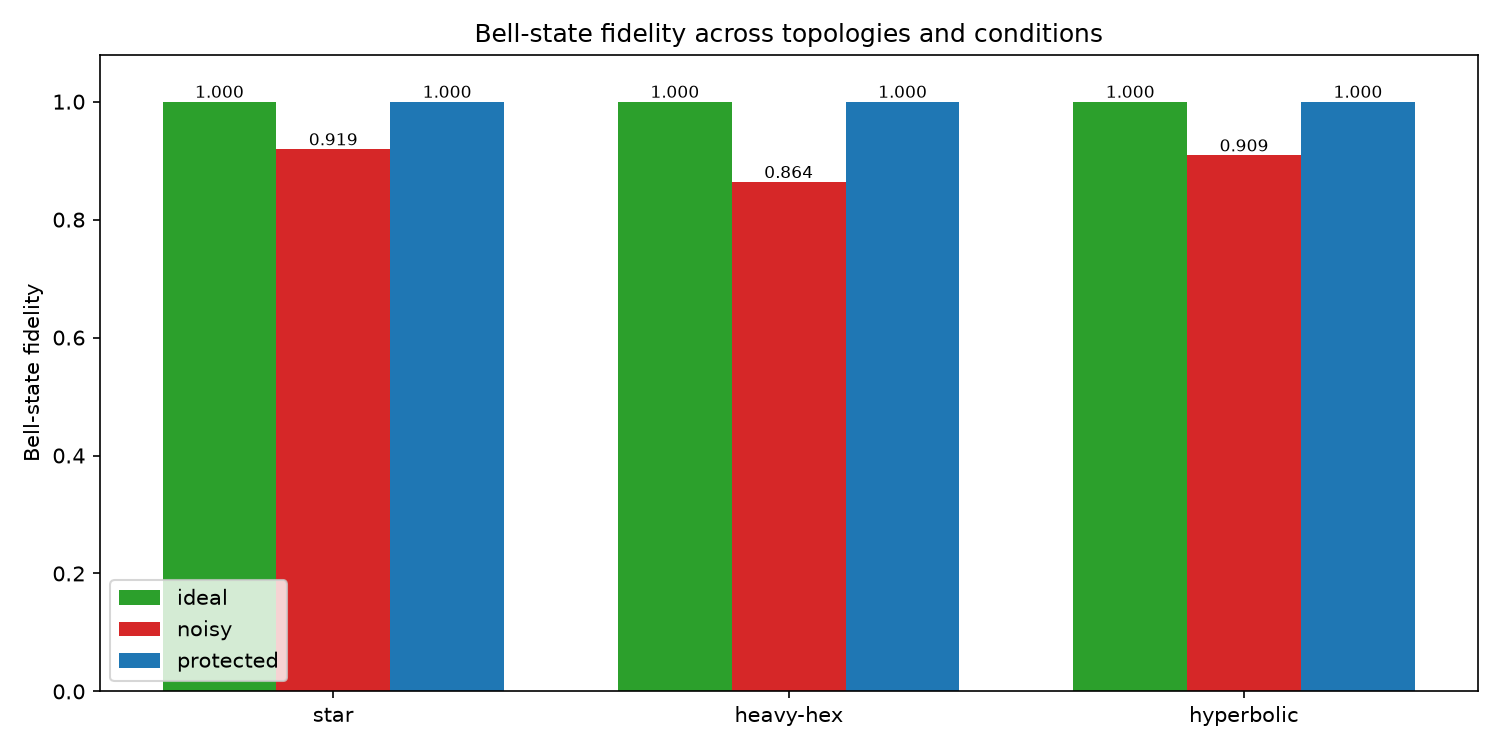
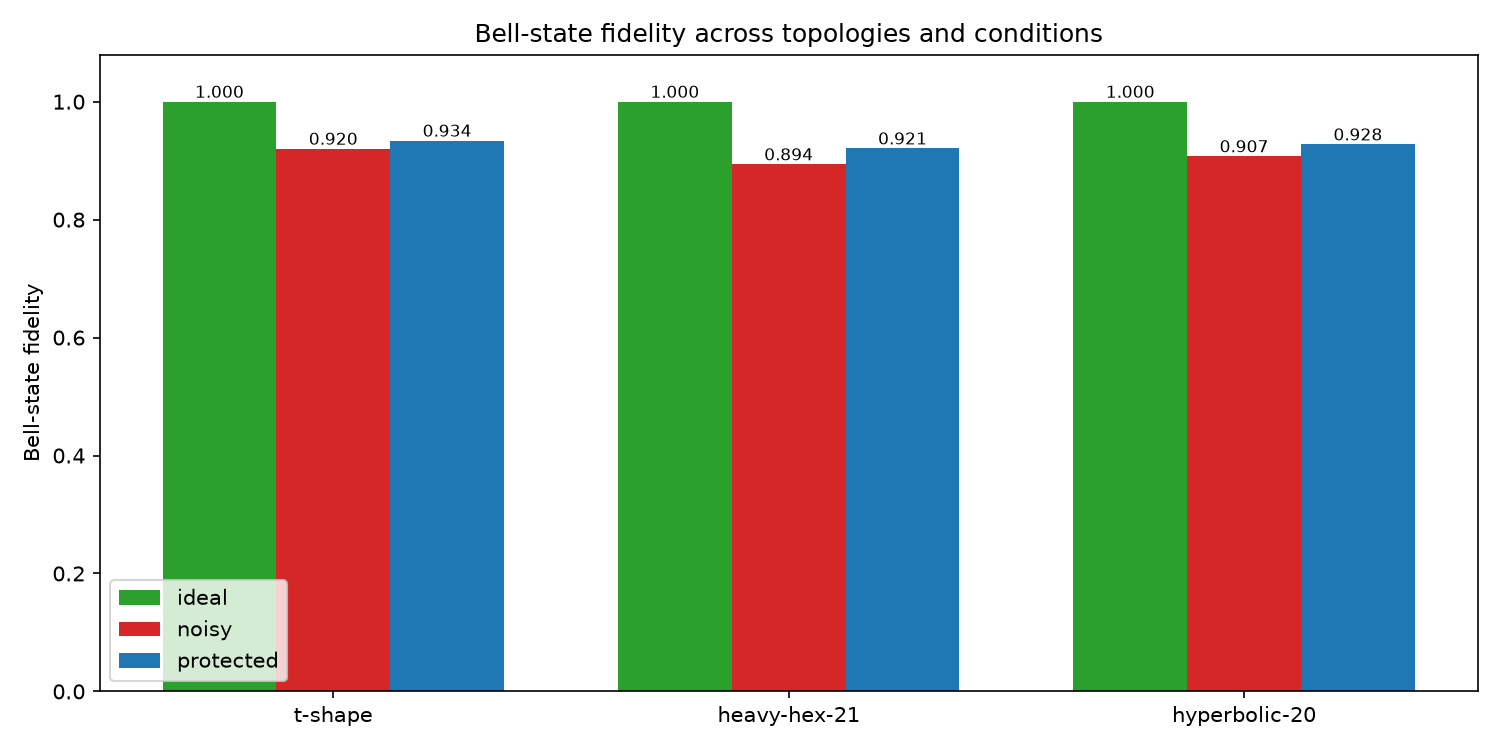
data: regenerate 9-case matrix (T, heavy-hex-21, hyperbolic-20)
- Matrix now size-matched (~20q); T-shape is the 2016 reference
- All results from honest ancilla protection: protected F in
  0.921-0.934 (<1 strictly), yield 0.88-0.91, +1 SWAP/+4 CX overhead
- New protection_cost.png: protection overhead vs fidelity gained

diff --git a/scripts/run_all_cases.py b/scripts/run_all_cases.py
@@ -23,14 +23,16 @@ import matplotlib
 matplotlib.use("Agg")
 import matplotlib.pyplot as plt
 
-from quantum.topologies.star import StarTopology
-from quantum.topologies.heavy_hex import HeavyHexTopology
-from quantum.topologies.hyperbolic import HyperbolicTopology
+from quantum.topologies.tshape import TShapeTopology
+from quantum.topologies.heavy_hex import HeavyHexPatch
+from quantum.topologies.hyperbolic import HyperbolicTiling
 from algorithms.experiment_matrix import run_matrix, CONDITIONS
 
 SHOTS = 2000
 SEED = 42
-TOPOLOGIES = [StarTopology(), HeavyHexTopology(), HyperbolicTopology()]
+# Headline comparison at matched sizes (~20 qubits); the T-shape is the
+# 5-qubit 2016 reference. The full size story lives in scaling_sweep.py.
+TOPOLOGIES = [TShapeTopology(), HeavyHexPatch(1, 2), HyperbolicTiling(17)]
 COLORS = {"ideal": "#2ca02c", "noisy": "#d62728", "protected": "#1f77b4"}
 
 
@@ -77,8 +79,8 @@ def chart_routing_cost(results):
     topologies = [t.name for t in TOPOLOGIES]
     x = range(len(topologies))
     for ax, metric, title in zip(axes,
-                                 ["swap_count", "depth"],
-                                 ["SWAP gates inserted", "Two-qubit circuit depth"]):
+                                 ["swap_count", "depth_2q"],
+                                 ["SWAP gates inserted", "Two-qubit gate depth"]):
         # routing cost is identical across conditions; take 'ideal'
         vals = [next(r[metric] for r in results
                      if r["topology"] == t and r["condition"] == "ideal")
@@ -91,6 +93,43 @@ def chart_routing_cost(results):
     fig.suptitle("Routing cost: Bell state across each chip's diameter")
     fig.tight_layout()
     fig.savefig(f"{REPO_ROOT}/results/figures/routing_cost.png", dpi=150)
+    plt.close(fig)
+
+
+def chart_protection_cost(results):
+    """What protection costs (extra SWAPs/depth) vs what it buys (fidelity)."""
+    fig, axes = plt.subplots(1, 2, figsize=(12, 5))
+    topologies = [t.name for t in TOPOLOGIES]
+    x = range(len(topologies))
+    prot = [next(r for r in results
+                 if r["topology"] == t and r["condition"] == "protected")
+            for t in topologies]
+    noisy = [next(r for r in results
+                  if r["topology"] == t and r["condition"] == "noisy")
+             for t in topologies]
+    ax = axes[0]
+    w = 0.35
+    ax.bar([p - w / 2 for p in x],
+           [r["added_swap_count"] for r in prot], w, label="+ SWAPs")
+    ax.bar([p + w / 2 for p in x],
+           [r["added_depth_2q"] for r in prot], w, label="+ 2q depth")
+    ax.set_xticks(list(x))
+    ax.set_xticklabels(topologies)
+    ax.set_title("Protection overhead (extra gates)")
+    ax.legend()
+    ax = axes[1]
+    gains = [p["fidelity"] - n["fidelity"] for p, n in zip(prot, noisy)]
+    yields = [p["yield"] for p in prot]
+    ax.bar([p - w / 2 for p in x], gains, w, label="fidelity gain")
+    ax.bar([p + w / 2 for p in x],
+           [1 - y for y in yields], w, label="shots discarded")
+    ax.set_xticks(list(x))
+    ax.set_xticklabels(topologies)
+    ax.set_title("Protection payoff: fidelity gained vs shots lost")
+    ax.legend()
+    fig.suptitle("Syndrome protection: cost (left) vs payoff (right)")
+    fig.tight_layout()
+    fig.savefig(f"{REPO_ROOT}/results/figures/protection_cost.png", dpi=150)
     plt.close(fig)
 
 
@@ -124,12 +163,14 @@ def main():
     chart_fidelity(results)
     chart_routing_cost(results)
     chart_protection_tradeoff(results)
+    chart_protection_cost(results)
     print("charts written to results/figures/")
     print("\nSummary:")
     for r in results:
-        print(f"  {r['topology']:12s} {r['condition']:9s} "
-              f"SWAPs={r['swap_count']:3d} depth={r['depth']:2d} "
-              f"F={r['fidelity']:.4f} yield={r['yield']:.3f}")
+        print(f"  {r['topology']:14s} {r['condition']:9s} "
+              f"SWAPs={r['swap_count']:3d} depth2q={r['depth_2q']:2d} "
+              f"F={r['fidelity']:.4f} yield={r['yield']:.3f} "
+              f"+SWAPs={r['added_swap_count']} +CX={r['added_cx_count']}")
 
 
 if __name__ == "__main__":
